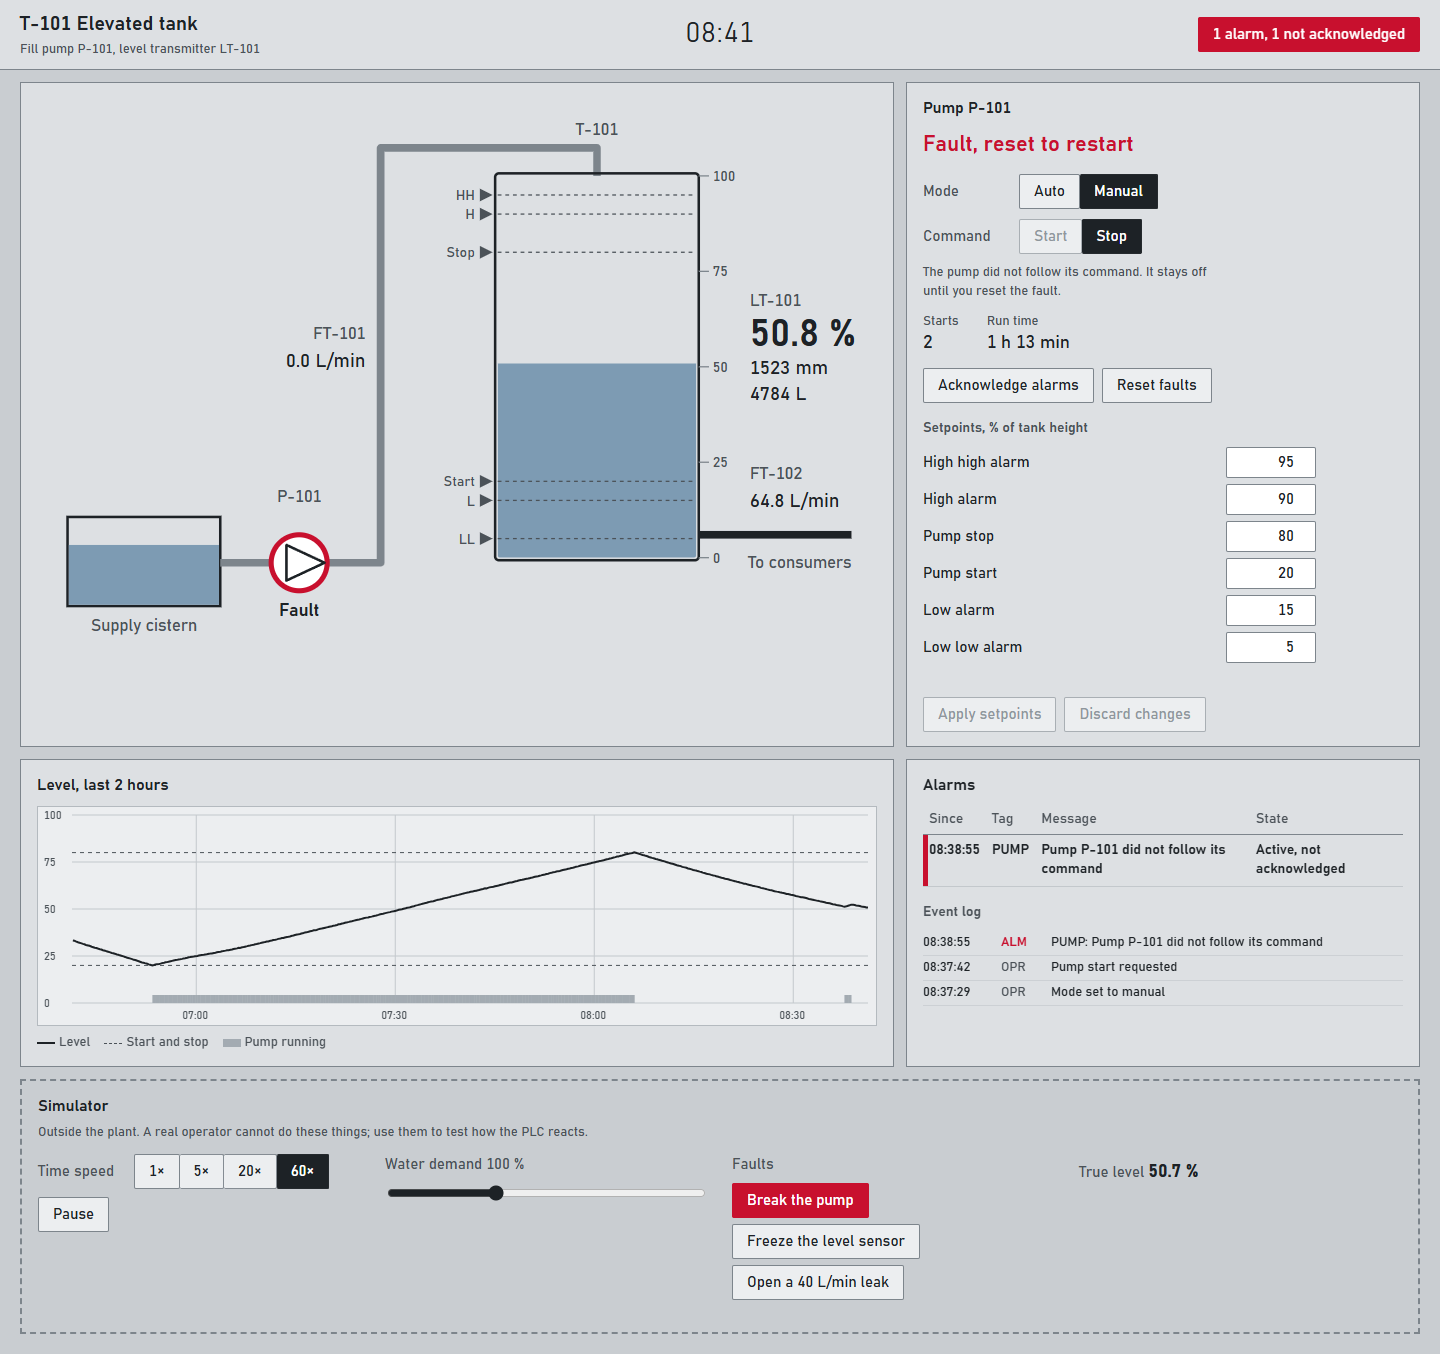
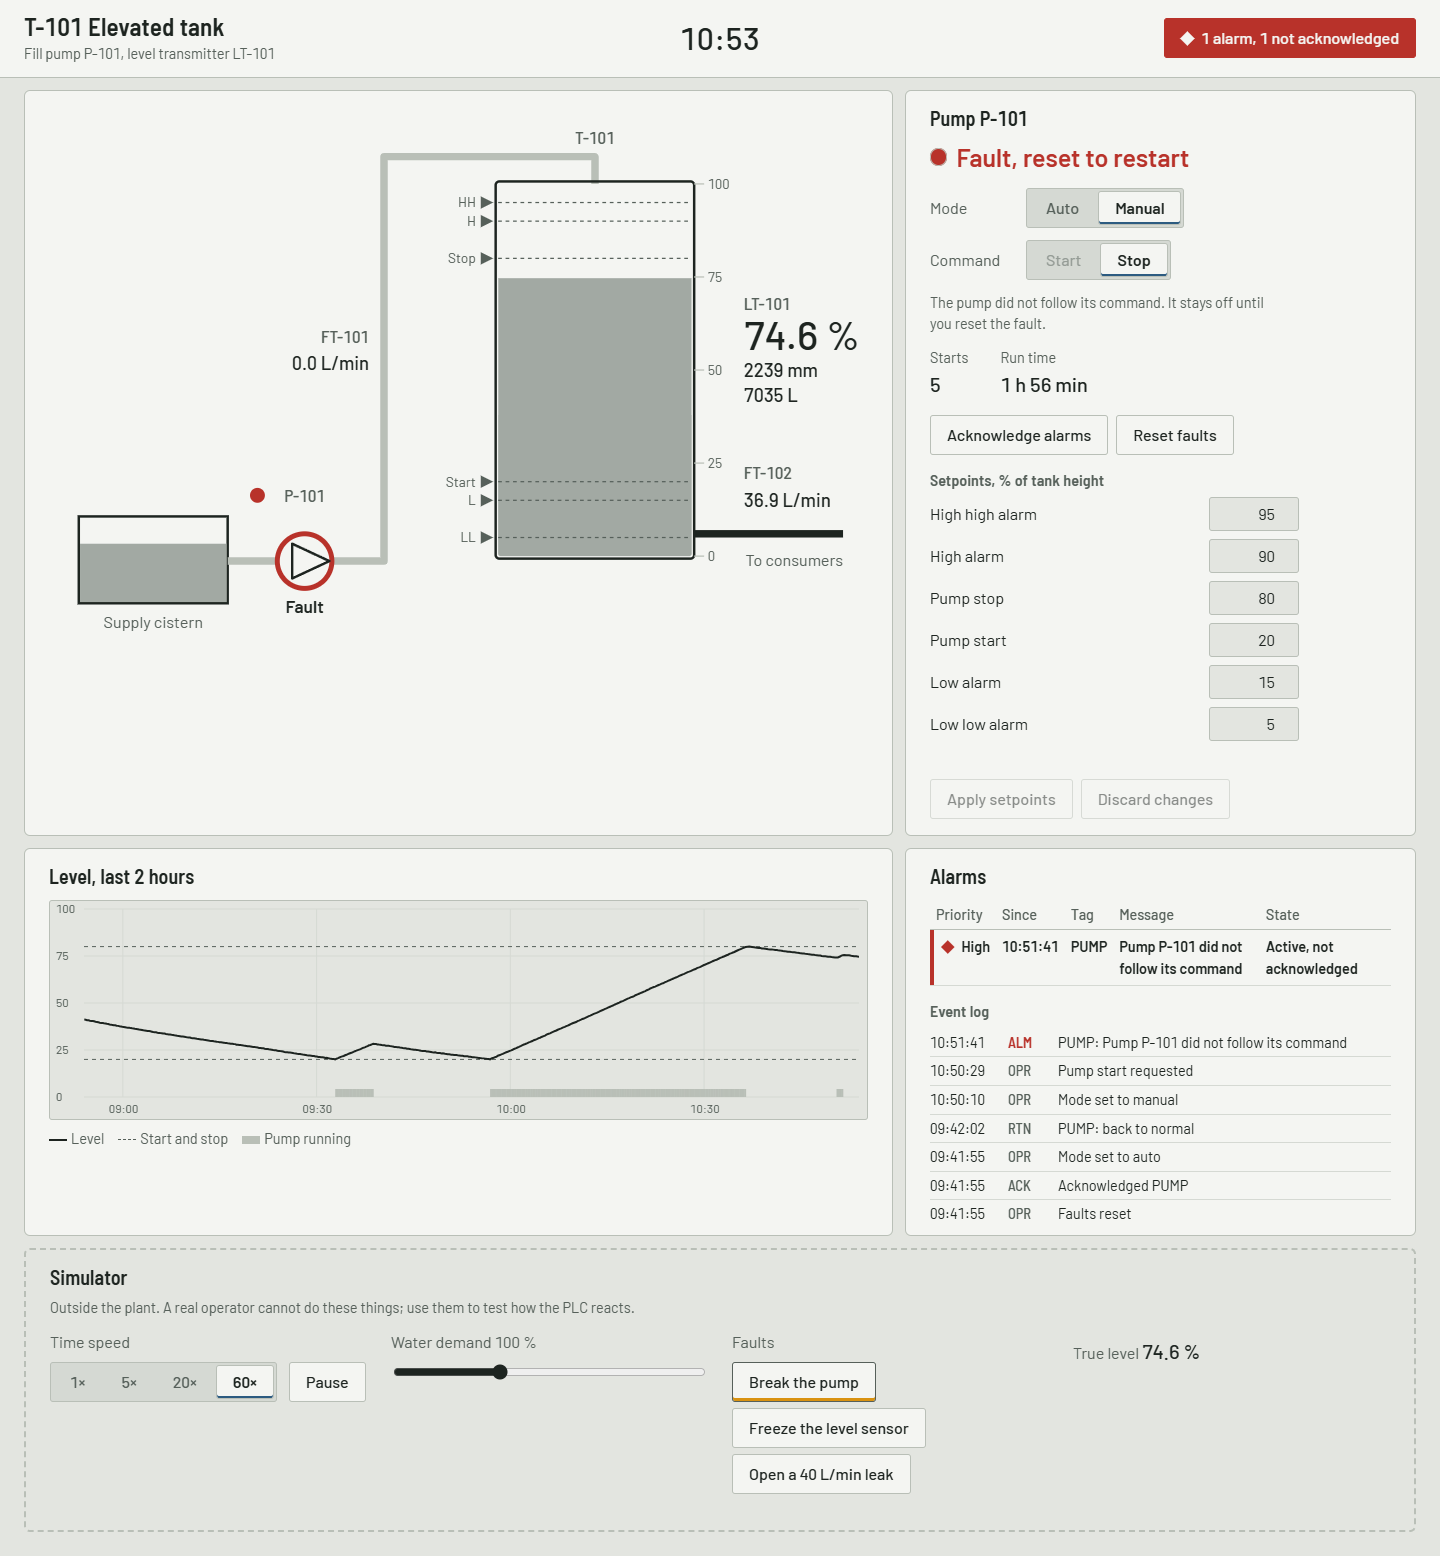
Record the README images again with the new look and describe them

diff --git a/README.md b/README.md
@@ -4,7 +4,7 @@ A water tank, a fill pump and the PLC program that runs them. It speaks Modbus T
 
 **[Try the live demo ↗](https://a2m33.github.io/tanksim/)** It runs the same Python code in your browser through Pyodide, so you can break the pump and watch the PLC react without installing anything.
 
-![The pump starts at the start level and fills the tank. Then the pump breaks, the PLC latches a fault and the alarm banner turns red. After a reset the pump runs again.](docs/demo.gif)
+![The HMI in its light theme. The pump starts at the start level, its status lamp turns amber and the tank fills. Then the pump breaks: the lamp and the faceplate turn red, and a red alarm banner with a diamond for high priority appears. After a reset and an acknowledge the pump runs again.](docs/demo.gif)
 
 I wanted something to practise PLC logic and Modbus on without buying a PLC. tanksim runs on any computer with Python 3.10 or newer and needs no other packages.
 
@@ -50,9 +50,9 @@ The program in [`plc.py`](src/tanksim/plc.py) runs once per scan, like the main 
 
 Alarms follow ISA-18.2. An alarm arrives unacknowledged and flashes. It leaves the list once it has cleared and you have acknowledged it. Level alarms have a 1 % deadband so sensor noise cannot make them chatter.
 
-The HMI follows ISA-101: a grey screen, no colour for normal states, red and amber for alarms only. A running pump is filled dark and a stopped pump is hollow.
+The HMI follows ISA-101: a grey-green screen where colour means something. A running pump is filled dark and a stopped pump is hollow. Its status lamp is grey when stopped, amber when running and red on a fault. Red and amber otherwise mark alarms, and each alarm also shows its priority as a word and a shape (a diamond for high, a triangle for medium), so nobody has to tell the colours apart. The page follows your system's dark mode with a darker night-shift palette.
 
-![The full HMI with a pump fault: process graphic, pump faceplate, level trend, alarm list with event log, and the simulator panel](docs/hmi-fault.png)
+![The full HMI after the pump broke in manual mode: the pump symbol and its lamp are red, the faceplate reads "Fault, reset to restart", the header shows 1 alarm not acknowledged, and the alarm list has one high priority pump alarm above the event log. Below are the level trend and the simulator panel with "Break the pump" switched on.](docs/hmi-fault.png)
 
 ## Modbus register map
 
